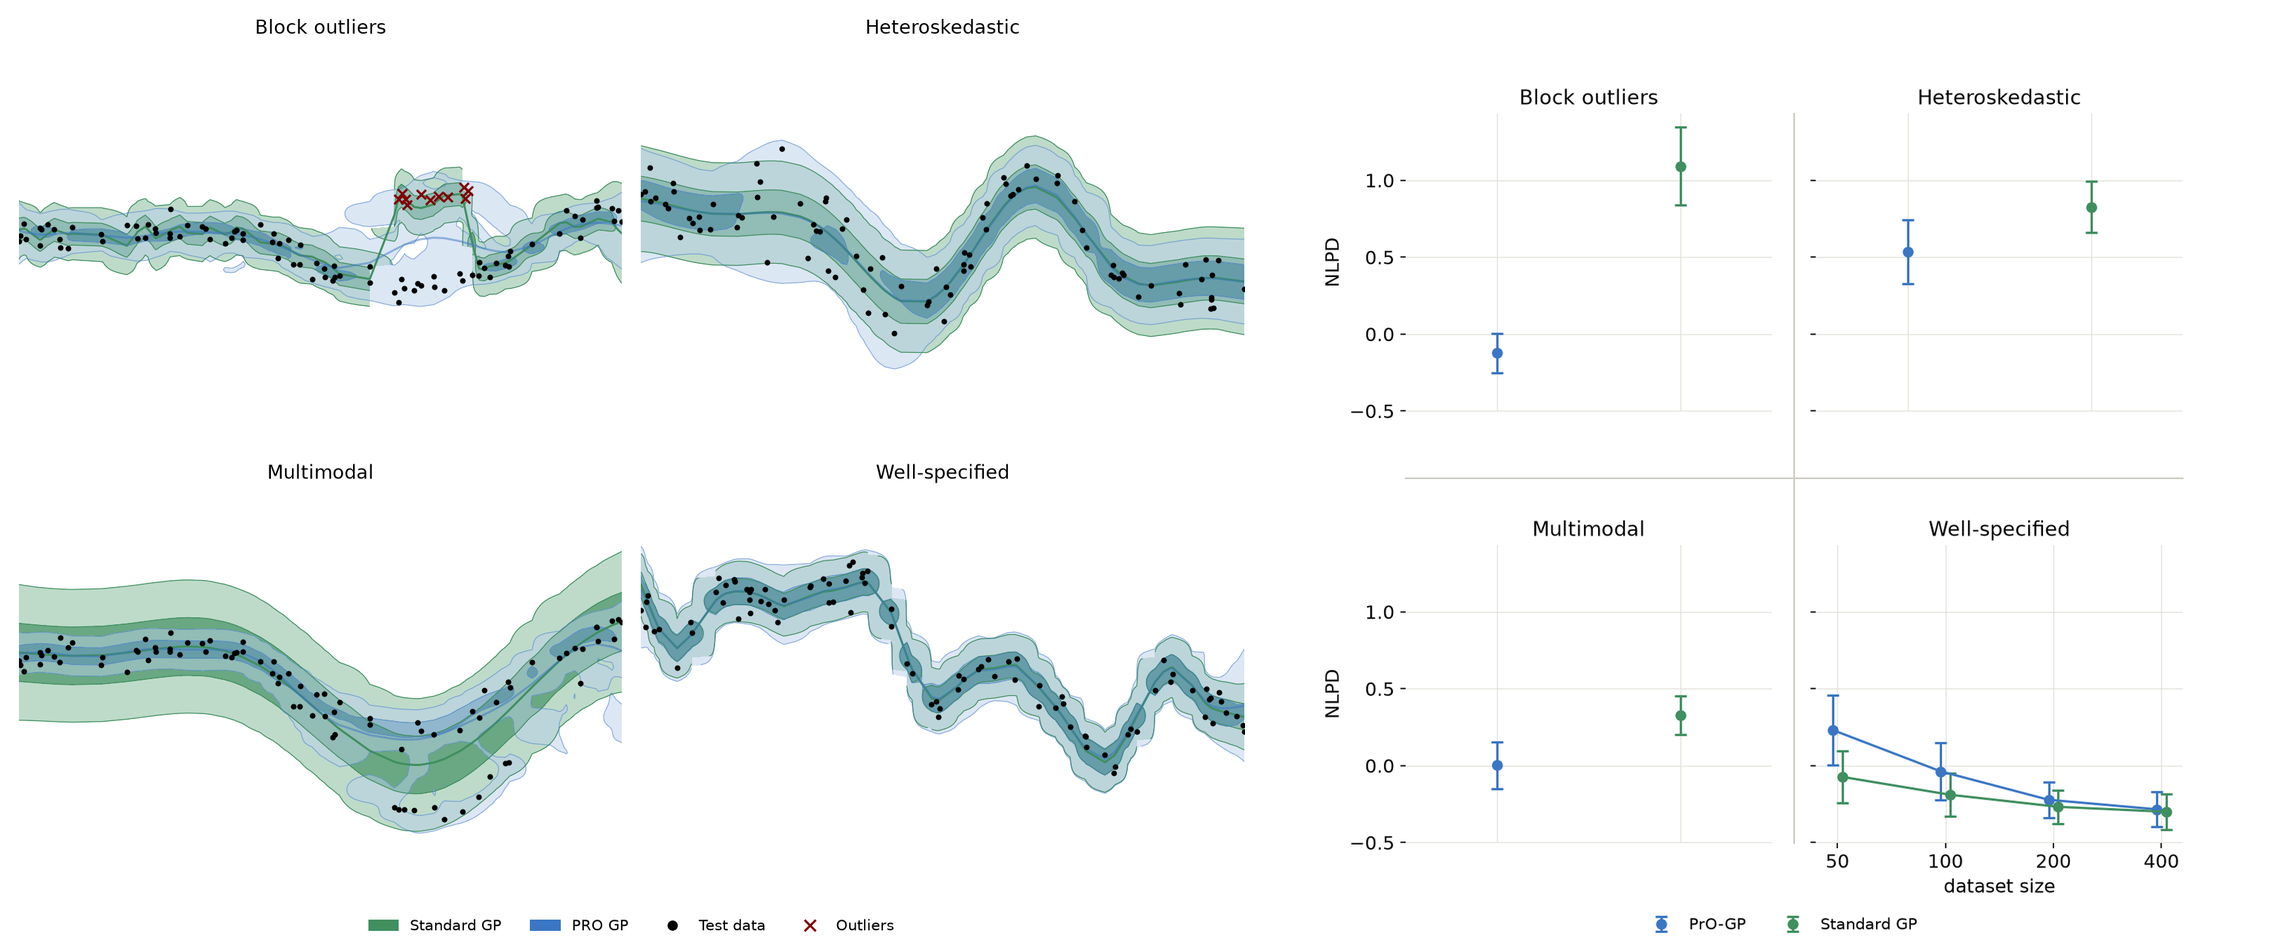
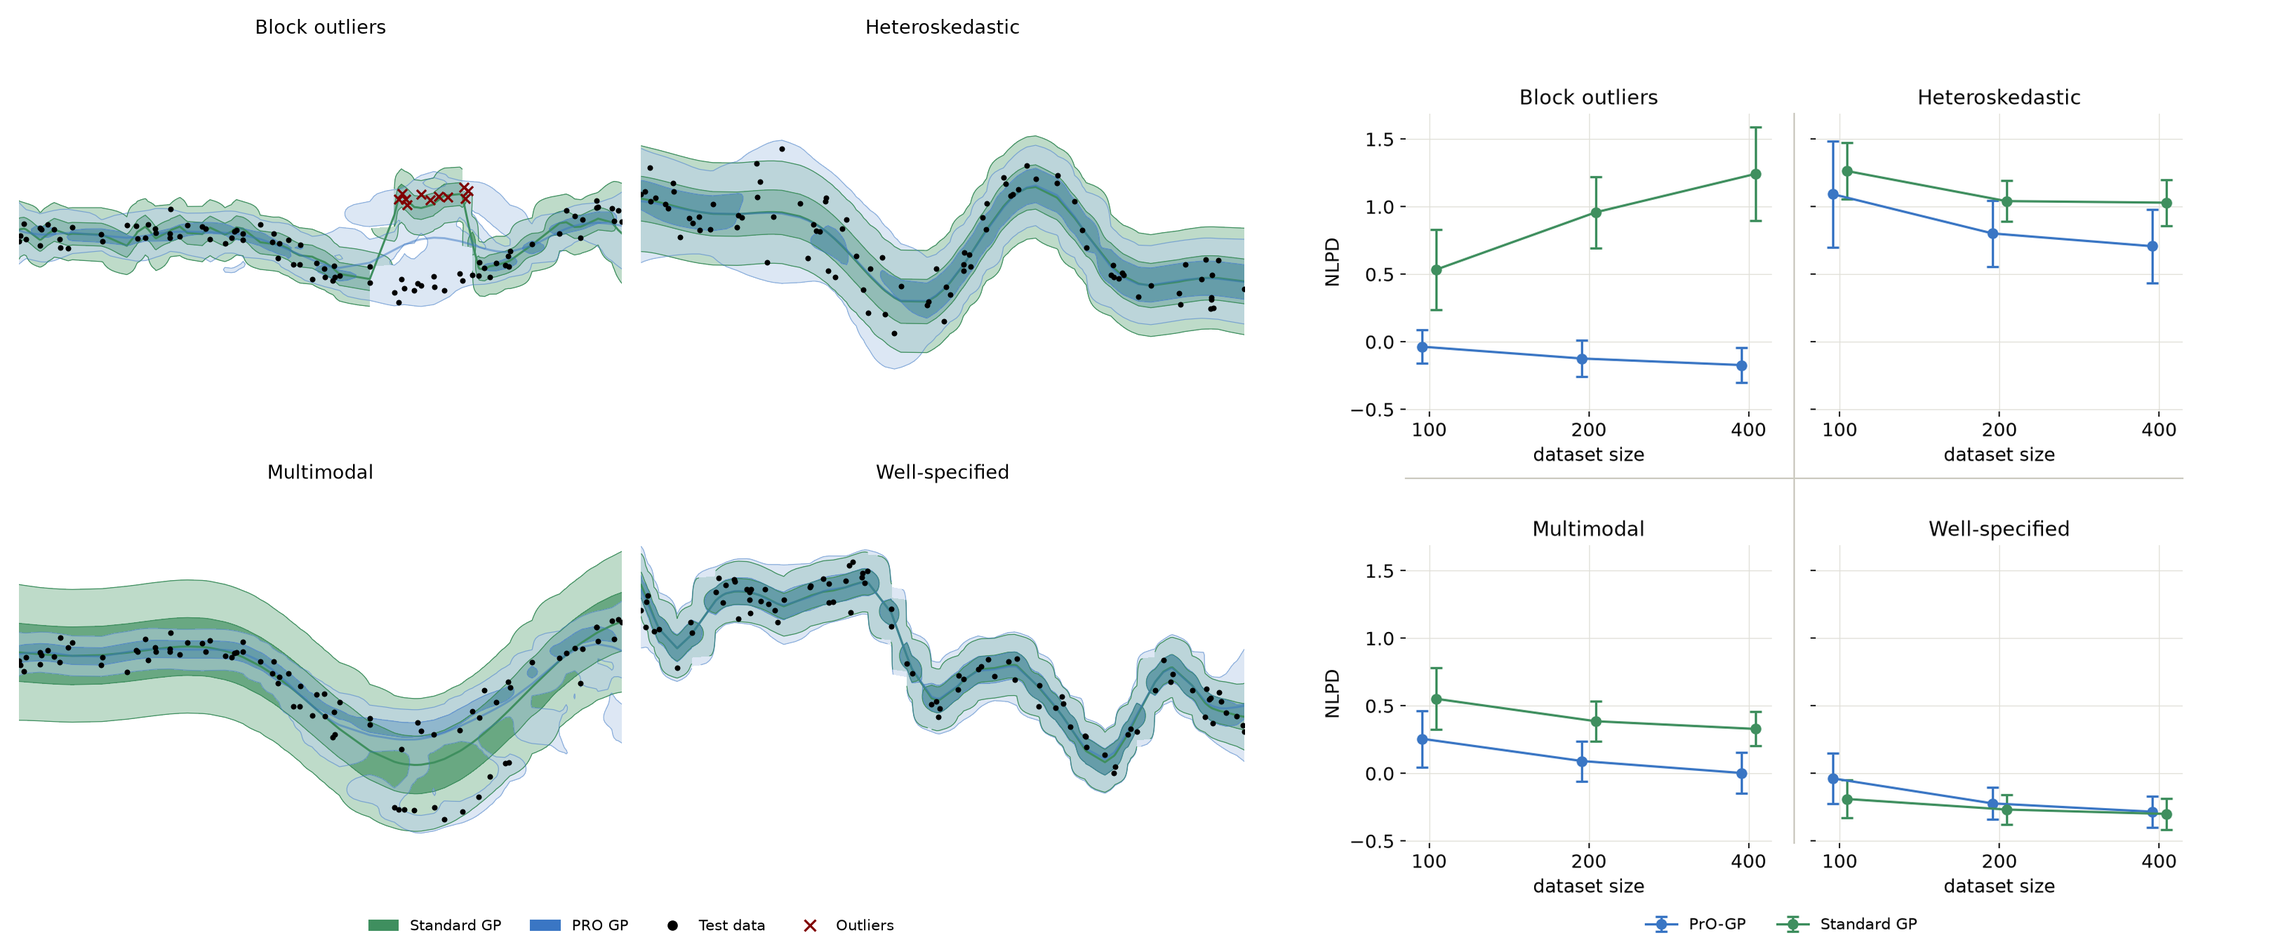
.

diff --git a/experiments/synthetic/combine_grid_summary_columns.py b/experiments/synthetic/combine_grid_summary_columns.py
@@ -1,8 +1,8 @@
-"""A genuine 2x4 grid, one column per dataset: `example_grid.py`'s qualitative fit
-overlay on top, `plot_summary.py`'s quantitative NLPD error bar directly underneath --
-built from real matplotlib subplots (via `example_grid.plot_examples`/
-`plot_summary.plot_summary_row`), not a composite of the two saved PNGs, so each
-dataset's column lines up exactly and there's one shared legend instead of two.
+"""`example_grid.py`'s qualitative fit-overlay grid on the left (~2/3 of the width) and
+`plot_summary.py`'s quantitative NLPD error-bar grid on the right (~1/3) -- each keeping
+its own native 2x2 layout, built from real matplotlib subplots (via
+`example_grid.plot_examples`/`plot_summary.plot_summary_row`), not a composite of the
+two saved PNGs, so there's one shared legend instead of two.
 
     python experiments/synthetic/combine_grid_summary_columns.py
     python experiments/synthetic/combine_grid_summary_columns.py --seed 7 --num-instances 30
@@ -29,56 +29,70 @@ from plot_summary import ALGORITHM_COLORS, DIVIDER_COLOR, SOURCES, load_summary,
 FIGURES_DIR = Path(__file__).resolve().parent / "figures"
 
 # example_grid.py's `_SOURCES` and plot_summary.py's `SOURCES` are independently
-# maintained lists that happen to need the same order for this script to make sense
-# (each column must be the same dataset in both rows) -- fail loudly rather than
-# silently mismatching columns if one changes without the other.
+# maintained lists -- not required to match for this layout (each keeps its own 2x2
+# block), but they always have so far, and a silent divergence would be an easy thing
+# to miss, so this fails loudly instead.
 _EXAMPLE_ORDER = tuple(spec.name for spec in EXAMPLE_SOURCES)
 if _EXAMPLE_ORDER != SOURCES:
     msg = (
         f"example_grid.py's dataset order {_EXAMPLE_ORDER} doesn't match "
-        f"plot_summary.py's {SOURCES} -- columns would line up wrong."
+        f"plot_summary.py's {SOURCES} -- did one change without the other?"
     )
     raise ValueError(msg)
 
-# The summary row's own error-bar markers already use these colors (see
+# The summary block's own error-bar markers already use these colors (see
 # plot_summary.py's ALGORITHM_COLORS), so this just gives the shared legend a second
 # pair of proxies alongside example_grid's density-band Patches -- readers connect the
-# two purely by color, which is already consistent across both rows.
+# two purely by color, which is already consistent across both blocks.
 SUMMARY_LEGEND_HANDLES = [
     Line2D(
         [0], [0], marker="o", color=ALGORITHM_COLORS["standard_gp"], linestyle="-",
-        markersize=6, label="Standard GP (NLPD)",
+        markersize=6, label="Standard GP",
     ),
     Line2D(
         [0], [0], marker="o", color=ALGORITHM_COLORS["pro_gp"], linestyle="-",
-        markersize=6, label="PrO-GP (NLPD)",
+        markersize=6, label="PrO-GP",
     ),
 ]
-
-
-def _add_dividers(fig, axes) -> None:
-    """One horizontal divider between the example-grid row and the summary row, and
-    three vertical dividers between the four dataset columns (spanning both rows) --
-    the "no spines" style otherwise leaves nothing separating the eight panels."""
-    fig.canvas.draw()  # finalise the tight_layout()-adjusted positions before reading them
-    pos = [[ax.get_position() for ax in row] for row in axes]
-
-    left = min(p.x0 for row in pos for p in row)
-    right = max(p.x1 for row in pos for p in row)
-    top = max(p.y1 for row in pos for p in row)
-    bottom = min(p.y0 for row in pos for p in row)
-
-    h_y = (pos[0][0].y0 + pos[1][0].y1) / 2
-    fig.add_artist(Line2D([left, right], [h_y, h_y], color=DIVIDER_COLOR, linewidth=1.0))
-
-    for col in range(len(pos[0]) - 1):
-        v_x = (pos[0][col].x1 + pos[0][col + 1].x0) / 2
-        fig.add_artist(Line2D([v_x, v_x], [bottom, top], color=DIVIDER_COLOR, linewidth=1.0))
-
 
 TITLE_FONTSIZE = 18
 LEGEND_FONTSIZE = 14
 AXIS_FONTSIZE = 15
+
+# Figure-fraction bounds for the two blocks' independent GridSpecs (rather than one
+# shared `plt.subplots` grid) -- a single GridSpec's hspace/wspace apply uniformly to
+# every row/column, so getting the example block tighter than the summary block needs
+# two separate ones, each free to pick its own spacing. `EXAMPLE_RIGHT` to
+# `SUMMARY_LEFT` is the gap the block-separator divider sits in.
+EXAMPLE_LEFT, EXAMPLE_RIGHT = 0.02, 0.64
+SUMMARY_LEFT, SUMMARY_RIGHT = 0.70, 0.99
+GRID_TOP, GRID_BOTTOM = 0.90, 0.16
+
+
+def _add_dividers(fig, example_axes, summary_axes) -> None:
+    """One vertical divider between the example block and the summary block (spanning
+    both rows), plus a "+" divider within the summary block only (matching
+    `plot_summary.py`'s own `_add_grid_dividers`) -- the example block keeps its native
+    no-divider look (matching its own standalone figure), since only the summary block
+    needs one to separate its four NLPD axes when nothing else marks them apart."""
+    fig.canvas.draw()  # finalise the GridSpec-adjusted positions before reading them
+    ex_pos = [ax.get_position() for ax in example_axes]
+    su_pos = [[ax.get_position() for ax in row] for row in summary_axes]
+
+    top = max(*(p.y1 for p in ex_pos), *(p.y1 for row in su_pos for p in row))
+    bottom = min(*(p.y0 for p in ex_pos), *(p.y0 for row in su_pos for p in row))
+
+    block_v_x = (max(p.x1 for p in ex_pos) + min(p.x0 for row in su_pos for p in row)) / 2
+    fig.add_artist(Line2D([block_v_x, block_v_x], [bottom, top], color=DIVIDER_COLOR, linewidth=1.2))
+
+    su_v_x = (su_pos[0][0].x1 + su_pos[0][1].x0) / 2
+    su_h_y = (su_pos[0][0].y0 + su_pos[1][0].y1) / 2
+    su_left = min(su_pos[0][0].x0, su_pos[1][0].x0)
+    su_right = max(su_pos[0][1].x1, su_pos[1][1].x1)
+    su_top = max(su_pos[0][0].y1, su_pos[0][1].y1)
+    su_bottom = min(su_pos[1][0].y0, su_pos[1][1].y0)
+    fig.add_artist(Line2D([su_v_x, su_v_x], [su_bottom, su_top], color=DIVIDER_COLOR, linewidth=1.0))
+    fig.add_artist(Line2D([su_left, su_right], [su_h_y, su_h_y], color=DIVIDER_COLOR, linewidth=1.0))
 
 
 def main(seed: int, num_instances: int) -> None:
@@ -88,30 +102,59 @@ def main(seed: int, num_instances: int) -> None:
     # embedded in a wider layout.
     plt.rcParams.update({"font.size": AXIS_FONTSIZE})
 
-    fig, axes = plt.subplots(2, 4, figsize=(24, 9), sharey="row", gridspec_kw={"hspace": 0.5, "wspace": 0.18})
+    fig = plt.figure(figsize=(24, 9))
+    # Tight -- example's four panels have no ticks/labels between them to make room
+    # for, so a big gap would just be dead space.
+    example_gs = fig.add_gridspec(
+        2, 2, left=EXAMPLE_LEFT, right=EXAMPLE_RIGHT, top=GRID_TOP, bottom=GRID_BOTTOM,
+        hspace=0.12, wspace=0.06,
+    )
+    # Looser -- summary's panels need room for tick labels and an x-axis label between
+    # them, unlike example's.
+    summary_gs = fig.add_gridspec(
+        2, 2, left=SUMMARY_LEFT, right=SUMMARY_RIGHT, top=GRID_TOP, bottom=GRID_BOTTOM,
+        hspace=0.45, wspace=0.3,
+    )
+    example_axes = [[fig.add_subplot(example_gs[i, j]) for j in range(2)] for i in range(2)]
+    summary_axes = [[fig.add_subplot(summary_gs[i, j]) for j in range(2)] for i in range(2)]
+    example_flat = [ax for row in example_axes for ax in row]
+    summary_flat = [ax for row in summary_axes for ax in row]
 
-    plot_examples(axes[0], seed, num_instances)
-    for ax in axes[0]:
+    plot_examples(example_flat, seed, num_instances)
+    for ax in example_flat:
         # `plot_example_panel` hardcodes its own title fontsize; bump it here rather
         # than threading a fontsize param through example_grid.py just for this.
         ax.set_title(ax.get_title(), fontsize=TITLE_FONTSIZE)
 
     records = load_summary()
-    plot_summary_row(axes[1], records, SOURCES)
-    axes[1][0].set_ylabel("NLPD", fontsize=AXIS_FONTSIZE)
-    for ax in axes[1]:
-        # Each column's dataset name is already the top row's title; repeating it
-        # under the bottom row too would just be noise.
-        ax.set_title("")
+    plot_summary_row(summary_flat, records, SOURCES)
+    # Link the summary block's own y-axes together -- the same effect
+    # `plot_summary.py`'s own `sharey=True` has for its standalone figure (nothing here
+    # shares with example's axes, which have no real y scale -- ticks hidden).
+    for ax in summary_flat[1:]:
+        ax.sharey(summary_flat[0])
+    for row in summary_axes:
+        row[0].set_ylabel("NLPD", fontsize=AXIS_FONTSIZE)
+    for ax in summary_flat:
+        ax.set_title(ax.get_title(), fontsize=TITLE_FONTSIZE)
         ax.tick_params(labelsize=AXIS_FONTSIZE)
         ax.xaxis.label.set_fontsize(AXIS_FONTSIZE)
 
+    # Two separate legends rather than one shared one, each centered under its own
+    # block, so "what's this color" stays answerable by looking straight down instead
+    # of hunting across a combined legend for the half that's actually relevant.
     fig.legend(
-        handles=[*EXAMPLE_LEGEND_HANDLES, *SUMMARY_LEGEND_HANDLES],
-        loc="lower center", ncol=6, fontsize=LEGEND_FONTSIZE, frameon=False,
+        handles=EXAMPLE_LEGEND_HANDLES, loc="lower center",
+        bbox_to_anchor=((EXAMPLE_LEFT + EXAMPLE_RIGHT) / 2, 0.0),
+        ncol=4, fontsize=LEGEND_FONTSIZE, frameon=False,
     )
-    fig.tight_layout(rect=(0, 0.06, 1, 1))
-    _add_dividers(fig, axes)
+    fig.legend(
+        handles=SUMMARY_LEGEND_HANDLES, loc="lower center",
+        bbox_to_anchor=((SUMMARY_LEFT + SUMMARY_RIGHT) / 2, 0.0),
+        ncol=2, fontsize=LEGEND_FONTSIZE, frameon=False,
+    )
+
+    _add_dividers(fig, example_flat, summary_axes)
 
     out_path = FIGURES_DIR / "example_grid_and_summary_columns.png"
     fig.savefig(out_path, dpi=150)

diff --git a/experiments/synthetic/plot_summary.py b/experiments/synthetic/plot_summary.py
@@ -1,23 +1,19 @@
-"""Plot `pro_gp` vs `standard_gp` mean NLPD +/- 95% CI, one subplot per dataset, from
-`results/summary.csv` (written by `aggregate_results.py`'s `save_csv`).
+"""Plot `pro_gp` vs `standard_gp` mean NLPD +/- 95% CI against dataset size `n`, one
+subplot per dataset, from `results/summary.csv` (written by `aggregate_results.py`'s
+`save_csv`).
 
 A 2x2 error-bar panel -- same grid shape and dataset order (multimodal,
 heteroskedastic, block_outliers, well_specified) as `example_grid.py`'s `_SOURCES` --
-with one subplot per source. `well_specified` (`n`) and `block_outliers`
-(`outlier_offset_frac`) each sweep a real parameter with more than one `param_value` in
-`summary.csv`, so each algorithm gets its own dodged, line-connected error bar across
-the tested values (`SWEEP_XLABELS`/`SWEEP_LOG2_SOURCES` control each one's x-axis label
-and whether it's log2-scaled -- `n` doubles each step so log2 spaces it evenly,
-`outlier_offset_frac` doesn't so it stays linear). `heteroskedastic`/`multimodal`
-currently only have one `param_value` each, so there's no sweep to put on the x-axis --
-instead, `pro_gp`/`standard_gp` themselves are the two x positions, each with its own
-error bar and no connecting line (a line only makes sense along a real swept axis, which
-two bare categories aren't). Their x-tick text is hidden (redundant with the shared
-legend) -- only a genuine sweep's x-axis keeps tick labels. A subplot automatically
-falls back to the categorical view whenever it has only one `param_value` per algorithm,
-and to the sweep view otherwise -- so a future multi-point sweep for e.g.
-`heteroskedastic` would render like the other two without any further code changes
-beyond adding it to `SWEEP_XLABELS`.
+with one subplot per source. `summary.csv` holds each dataset's own
+misspecification-severity sweep too (e.g. `outlier_offset_frac` for block_outliers,
+`noise_skewness` for skewed), alongside its `n` sweep -- `load_summary` keeps only rows
+where `param_name == "n"`, so a source with no `n` sweep yet in the CSV simply doesn't
+appear rather than plotting the wrong x-axis. Each algorithm gets its own dodged,
+line-connected error bar across the tested `n` values, log2-scaled (`n` doubles each
+step) so the ticks stay evenly spaced. A source with only one `n` value falls back to
+`pro_gp`/`standard_gp` as the two x positions instead (`_plot_categorical`), with no
+connecting line and no x-tick text (redundant with the shared legend) -- e.g. if a
+dataset's `n` sweep hasn't finished running yet.
 
 Colors/style match `example_grid.py`'s convention (GP green / PRO blue, no spines, faint
 grid, a shared bottom legend) so figures share one visual language. Thin divider lines
@@ -56,17 +52,6 @@ SOURCE_TITLES = {
     "well_specified": "Well-specified",
 }
 
-# x-axis label for sources with a real sweep (more than one `param_value`); a source
-# with only one `param_value` doesn't need an entry (it renders via the categorical
-# view instead -- see `_plot_categorical`).
-SWEEP_XLABELS = {
-    "well_specified": "dataset size",
-    "block_outliers": "outlier offset (x signal std)",
-}
-# `n` doubles each step, so log2 spacing keeps the ticks evenly spaced;
-# `outlier_offset_frac`'s steps aren't multiplicative, so it stays linear.
-SWEEP_LOG2_SOURCES = {"well_specified"}
-
 ALGORITHMS = ("pro_gp", "standard_gp")
 ALGORITHM_LABELS = {"pro_gp": "PrO-GP", "standard_gp": "Standard GP"}
 # Same GP green / PRO blue as example_grid.py's GP_COLOR/PRO_COLOR -- kept as literal
@@ -74,7 +59,7 @@ ALGORITHM_LABELS = {"pro_gp": "PrO-GP", "standard_gp": "Standard GP"}
 # stack (synthetic.fit_gp/fit_pro) that this CSV-only script has no other need for.
 ALGORITHM_COLORS = {"pro_gp": "#3a76c4", "standard_gp": "#3f8f5f"}
 
-WELL_SPECIFIED_N_MIN = 100  # drop the n=50 row -- "n increasing from 100 to 800"
+N_MIN = 100  # drop n=50 rows -- "n increasing from 100 to 800", applied to every source
 DODGE_FRAC = 0.03  # multiplicative x-offset between the two algorithms' error bars
 
 DIVIDER_COLOR = "#cccac0"
@@ -96,19 +81,22 @@ plt.rcParams.update({
 
 
 def load_summary(path: Path = SUMMARY_CSV):
-    """{source: {algorithm: [(param_value, nlpd_mean, nlpd_ci95), ...]}}, each
-    algorithm's list sorted by `param_value`."""
+    """{source: {algorithm: [(n, nlpd_mean, nlpd_ci95), ...]}}, each algorithm's list
+    sorted by `n`. Only rows whose own `param_name` is `"n"` are kept -- `summary.csv`
+    also holds each dataset's own misspecification-severity sweep (`amplitude_frac`,
+    `outlier_offset_frac`, `noise_skewness`, ...), which isn't what this plot shows."""
     records: dict[str, dict[str, list[tuple[float, float, float]]]] = defaultdict(
         lambda: defaultdict(list)
     )
     with path.open() as f:
         for row in csv.DictReader(f):
-            source = row["source"]
-            param_value = float(row["param_value"])
-            if source == "well_specified" and param_value < WELL_SPECIFIED_N_MIN:
+            if row["param_name"] != "n":
                 continue
-            records[source][row["algorithm"]].append(
-                (param_value, float(row["nlpd_mean"]), float(row["nlpd_ci95"]))
+            n = float(row["param_value"])
+            if n < N_MIN:
+                continue
+            records[row["source"]][row["algorithm"]].append(
+                (n, float(row["nlpd_mean"]), float(row["nlpd_ci95"]))
             )
 
     for by_algorithm in records.values():
@@ -118,13 +106,10 @@ def load_summary(path: Path = SUMMARY_CSV):
     return records
 
 
-def _plot_sweep(
-    ax, by_algorithm: dict[str, list[tuple[float, float, float]]], all_values, *, xlabel, use_log2,
-):
-    """Per-algorithm line+error-bar series across a real swept `param_value` -- dodged
-    apart so nearby points' error bars stay legible, with the actual swept values as
-    ticks. `use_log2` only makes sense for a multiplicatively-spaced sweep (e.g. `n`
-    doubling); a linearly-spaced one (e.g. an offset fraction) stays on a linear axis."""
+def _plot_sweep(ax, by_algorithm: dict[str, list[tuple[float, float, float]]], all_values):
+    """Per-algorithm line+error-bar series across the swept `n` values -- dodged apart
+    so nearby points' error bars stay legible, log2-scaled (`n` doubles each step) so
+    the ticks stay evenly spaced, with the actual tested values as ticks."""
     for algorithm in ALGORITHMS:
         points = by_algorithm.get(algorithm)
         if not points:
@@ -139,15 +124,14 @@ def _plot_sweep(
             markersize=6, linewidth=1.5, elinewidth=1.5, capsize=4, capthick=1.5,
         )
 
-    ax.set_xlabel(xlabel)
+    ax.set_xlabel("dataset size")
     # `set_xscale` must come *before* `set_xticks` -- changing the scale resets the
     # tick locator, which would silently discard explicit ticks set beforehand (and
     # fall back to log2's own default locator, e.g. 64/128/256 instead of the actual
     # swept values).
-    if use_log2:
-        ax.set_xscale("log", base=2)
-        ax.xaxis.set_major_formatter(mticker.ScalarFormatter())
-        ax.xaxis.set_minor_formatter(mticker.NullFormatter())
+    ax.set_xscale("log", base=2)
+    ax.xaxis.set_major_formatter(mticker.ScalarFormatter())
+    ax.xaxis.set_minor_formatter(mticker.NullFormatter())
     ax.set_xticks(all_values)
 
 
@@ -176,11 +160,7 @@ def _plot_source(ax, source: str, by_algorithm: dict[str, list[tuple[float, floa
     is_sweep = len(all_values) > 1
 
     if is_sweep:
-        _plot_sweep(
-            ax, by_algorithm, all_values,
-            xlabel=SWEEP_XLABELS.get(source, "param value"),
-            use_log2=source in SWEEP_LOG2_SOURCES,
-        )
+        _plot_sweep(ax, by_algorithm, all_values)
     else:
         _plot_categorical(ax, by_algorithm)
 

diff --git a/experiments/synthetic/aggregate_results.py b/experiments/synthetic/aggregate_results.py
@@ -66,6 +66,15 @@ def collect():
                 source = metrics["source"]
                 param_names[source] = metrics["param_name"]
                 records[source][metrics["param_value"]][metrics["algorithm"]] = {
+                    # `param_name` is duplicated here (alongside the source-level
+                    # `param_names` dict) because a source can have been swept over
+                    # more than one distinguishing parameter across its history (e.g.
+                    # an old `amplitude_frac` sweep and a newer `n` sweep both sitting
+                    # under `results/heteroskedastic/`) -- `param_names[source]` can
+                    # only hold one name (whichever `param_dir` sorts last), so
+                    # `save_csv` needs each row's *own* name to label it correctly
+                    # rather than mislabelling every row with that single name.
+                    "param_name": metrics["param_name"],
                     "nlpd_mean": metrics["nlpd_mean"],
                     "nlpd_std": metrics["nlpd_std"],
                     "nlpds": metrics.get("nlpds"),
@@ -117,13 +126,15 @@ def save_csv(records, param_names, path: Path):
         writer = csv.DictWriter(f, fieldnames=fieldnames)
         writer.writeheader()
         for source in sorted(records):
-            param_name = param_names[source]
             for param_value in sorted(records[source]):
                 for algorithm, entry in sorted(records[source][param_value].items()):
                     writer.writerow(
                         {
                             "source": source,
-                            "param_name": param_name,
+                            # Each row's own param_name (see `collect`), not the
+                            # source-level `param_names[source]` -- a source can have
+                            # rows from more than one swept parameter.
+                            "param_name": entry["param_name"],
                             "param_value": param_value,
                             "algorithm": algorithm,
                             "nlpd_mean": entry["nlpd_mean"],

diff --git a/experiments/synthetic/example_grid.py b/experiments/synthetic/example_grid.py
@@ -53,7 +53,7 @@ GP_COLOR = "#3f8f5f"
 PRO_COLOR = "#3a76c4"
 GP_CMAP = LinearSegmentedColormap.from_list("gp_density", ["#e8f4ec", GP_COLOR])
 PRO_CMAP = LinearSegmentedColormap.from_list("pro_density", ["#e6eef8", PRO_COLOR])
-PRO_ALPHA = 0.5
+PRO_ALPHA = 0.7
 
 plt.rcParams.update({
     "font.size": 12,
@@ -228,7 +228,7 @@ def plot_examples(
 # panel -- is the point.
 LEGEND_HANDLES = [
     Patch(color=GP_COLOR, label="Standard GP"),
-    Patch(color=PRO_COLOR, label="PRO GP"),
+    Patch(color=PRO_COLOR, label="PrO-GP"),
     Line2D([0], [0], marker="o", color="black", linestyle="None", markersize=6, label="Test data"),
     Line2D(
         [0], [0], marker="x", color="maroon", linestyle="None",

diff --git a/experiments/synthetic/example_grid_draws.py b/experiments/synthetic/example_grid_draws.py
@@ -62,7 +62,7 @@ FIGURES_DIR = Path(__file__).resolve().parent / "figures"
 GP_COLOR = "#3f8f5f"
 PRO_COLOR = "#3a76c4"
 GP_CMAP = LinearSegmentedColormap.from_list("gp_density", ["#e8f4ec", GP_COLOR])
-PRO_DRAW_ALPHA = 0.5
+PRO_DRAW_ALPHA = 0.7
 NUM_PRO_DRAWS = 10
 
 plt.rcParams.update({
